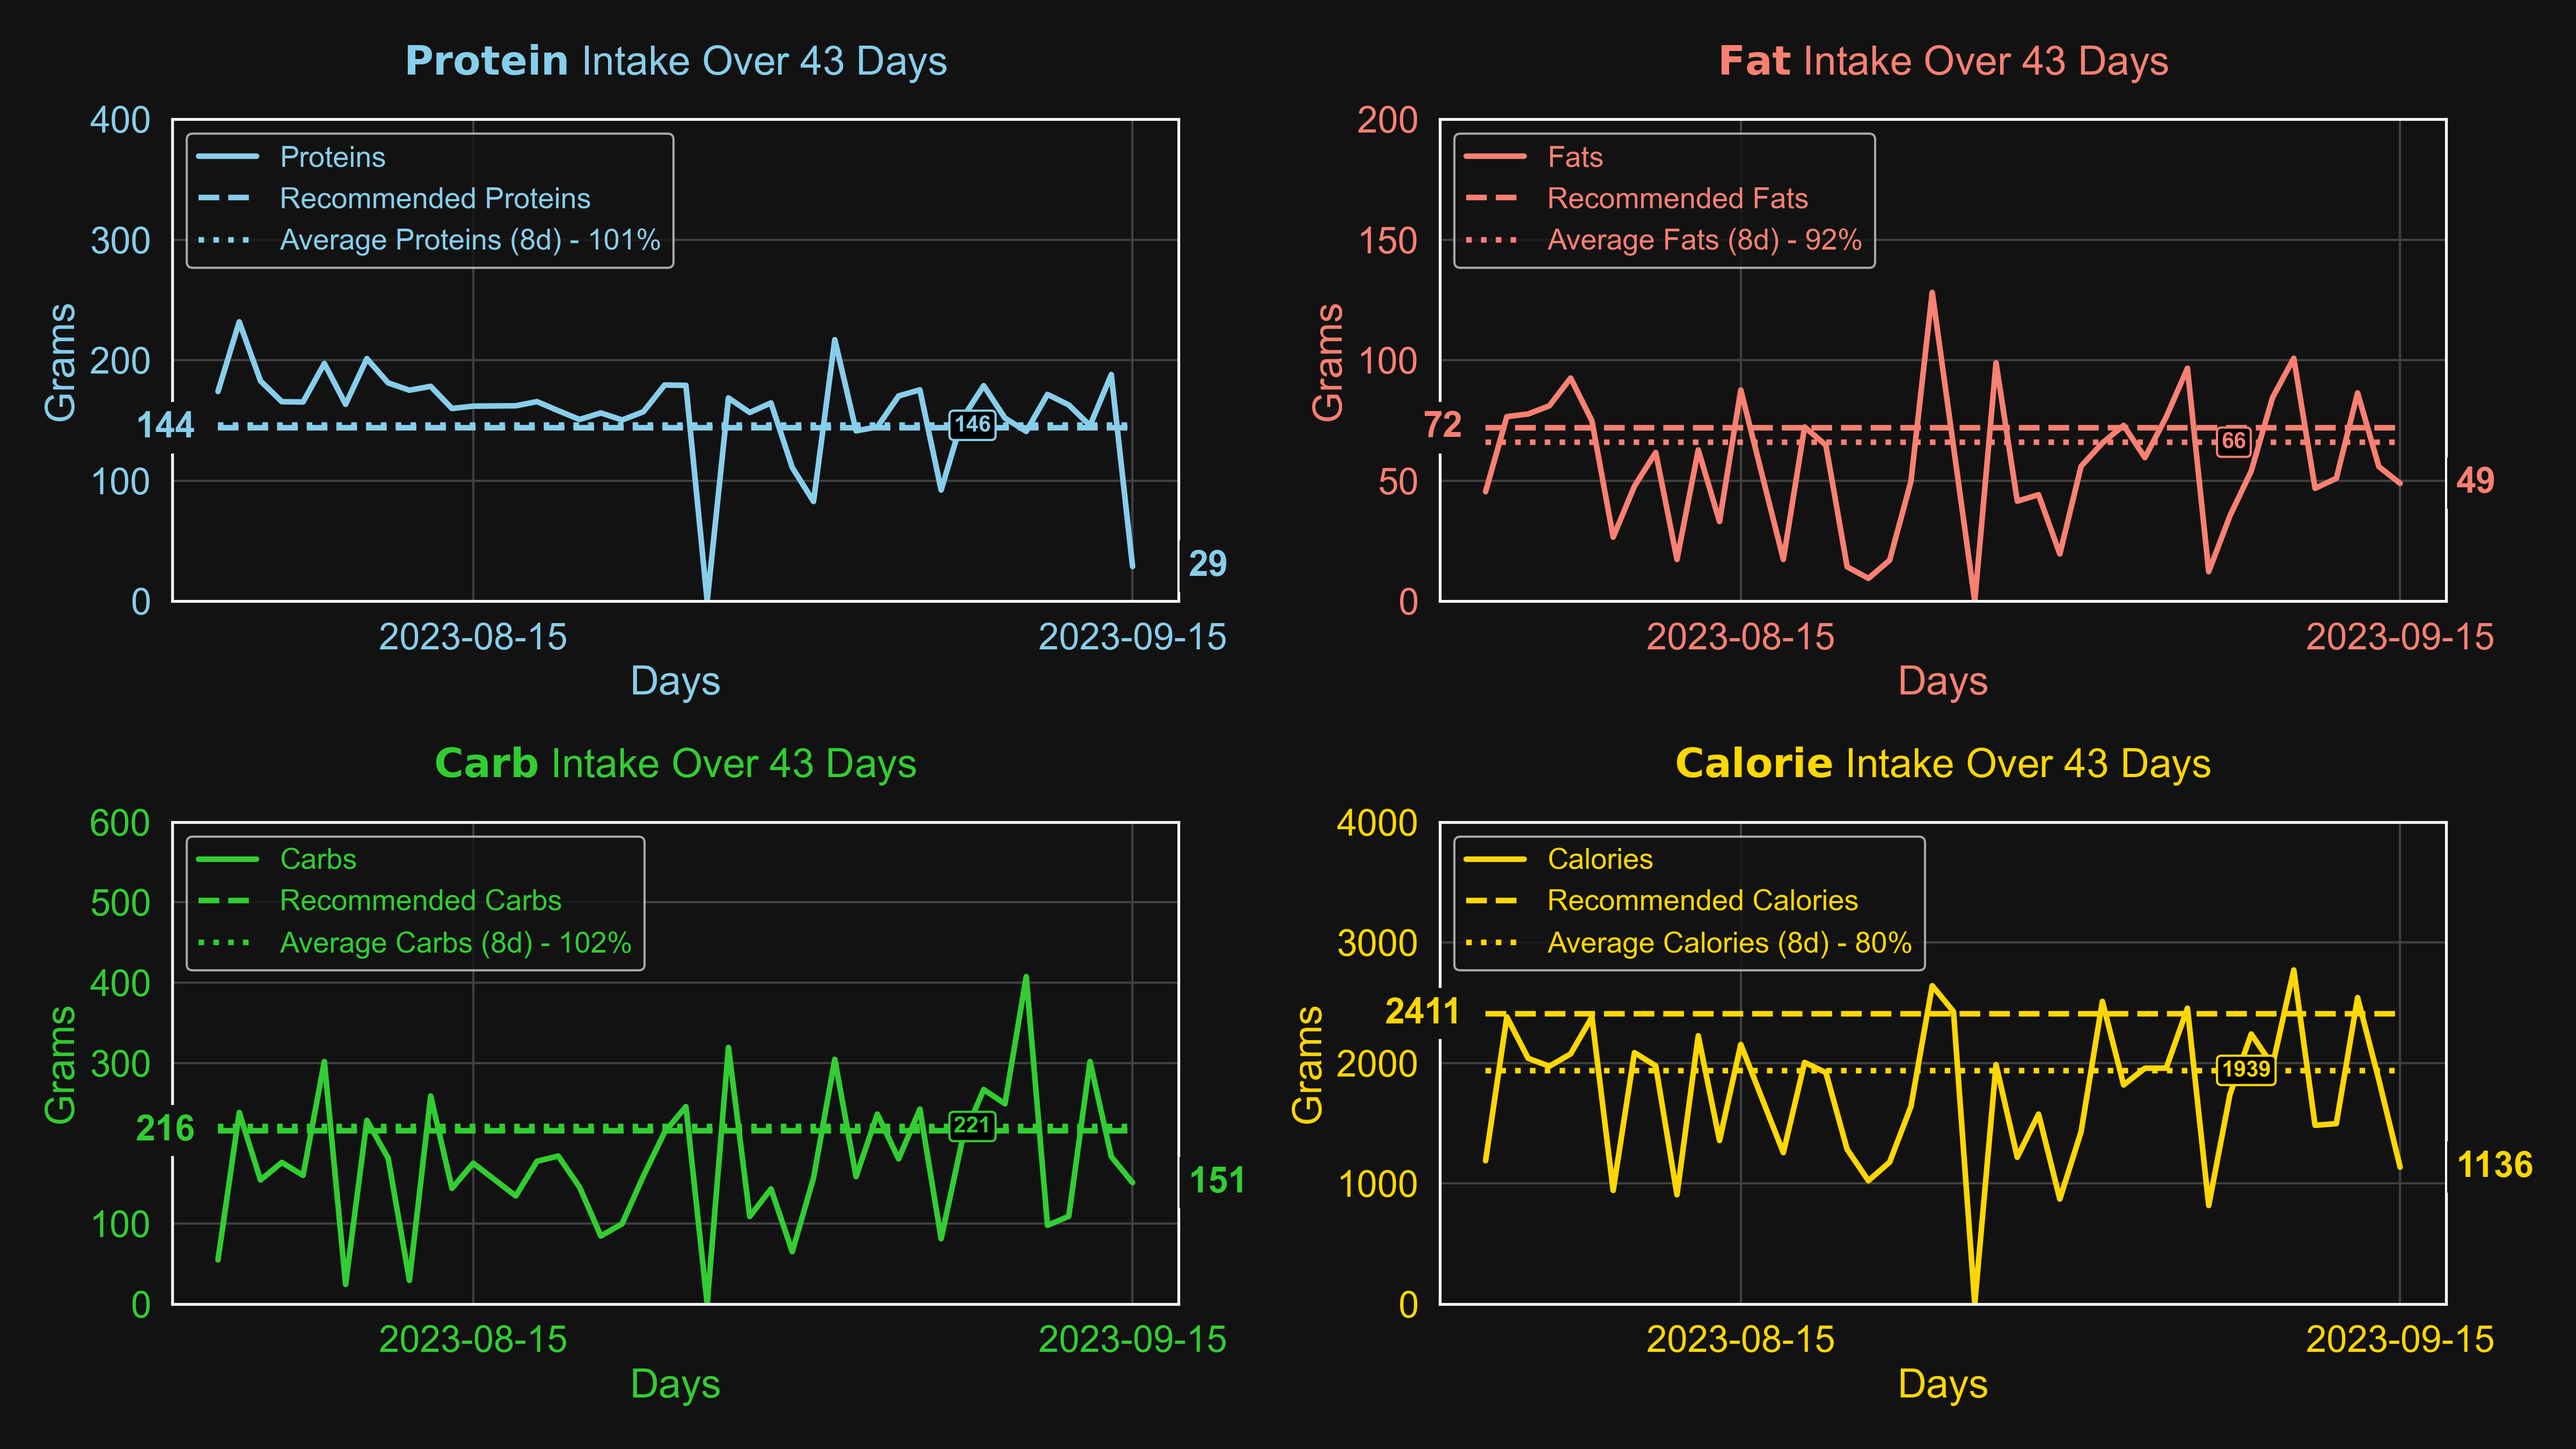
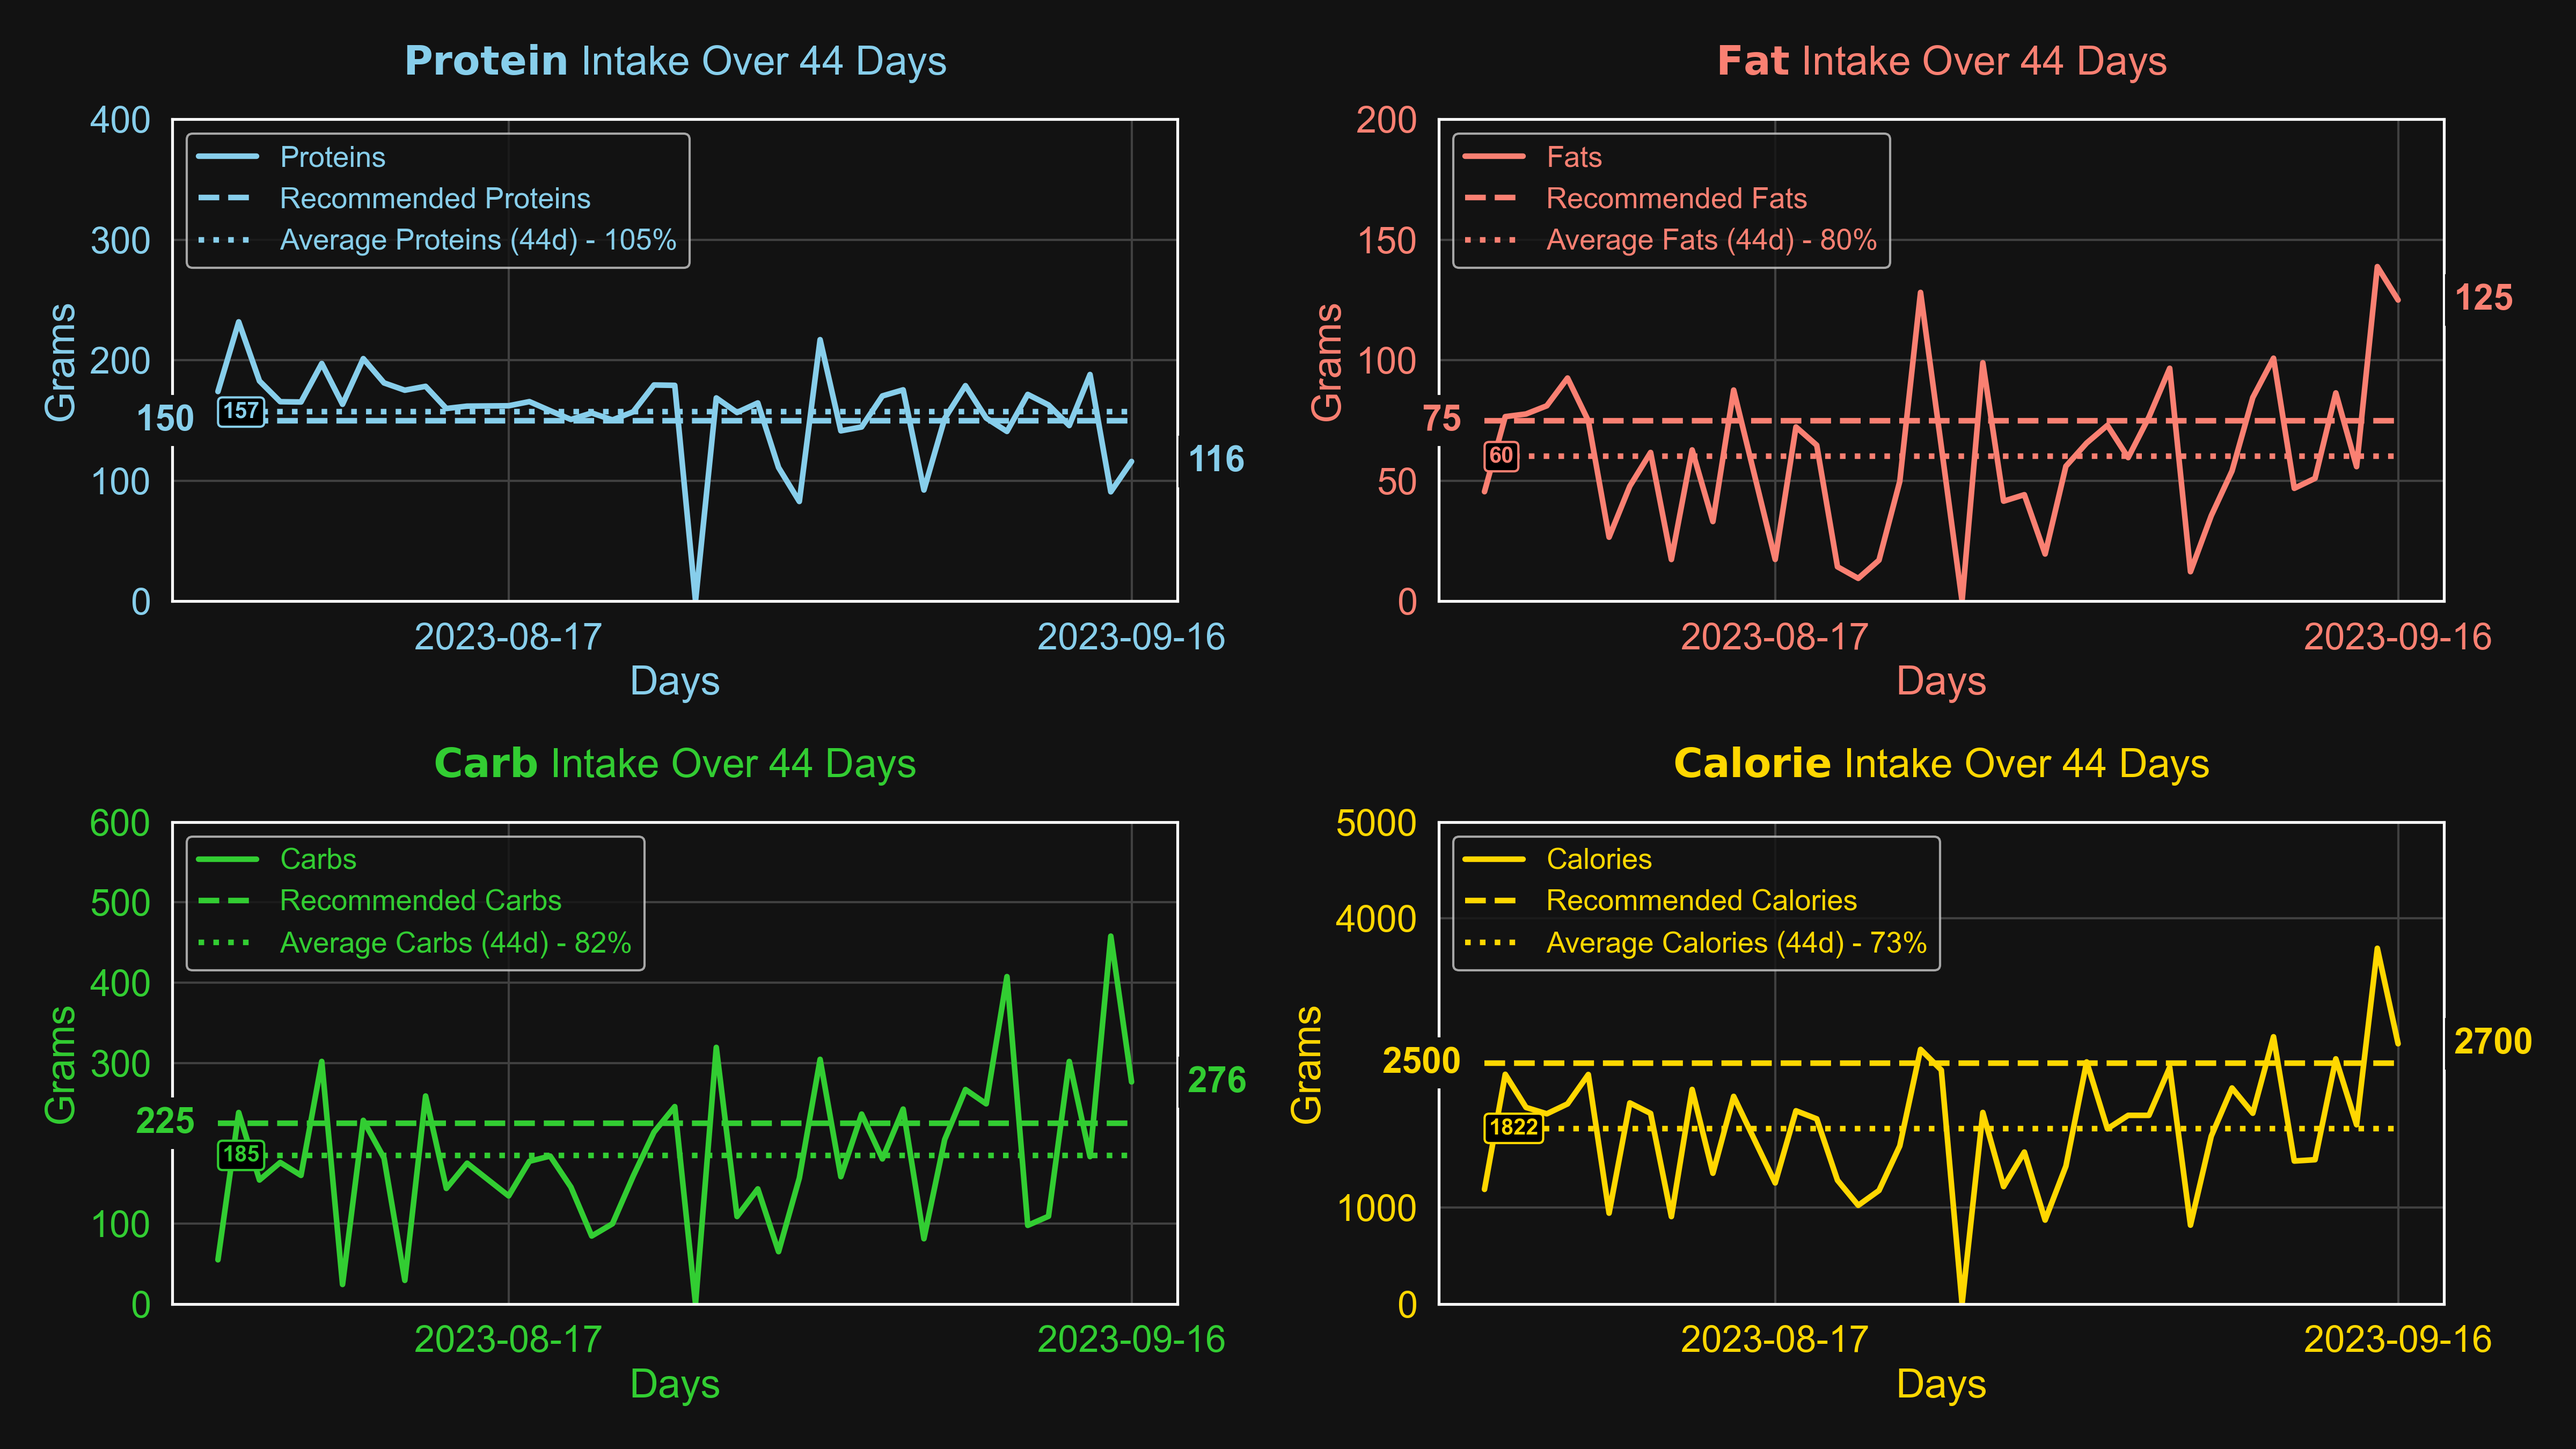
-

diff --git a/graph.py b/graph.py
@@ -51,7 +51,8 @@ def plot_chart(df, ax, nutrient, recommended_nutrient, average_nutrient, title, 
     if df[average_nutrient][0]:
         space_above = 1.15 if individual else 1.3
         average_ratio = int(round(df[average_nutrient][0] / df[recommended_nutrient][0] * 100))
-        values_to_display = [nutrient, recommended_nutrient, average_nutrient + ' (' + str(average_nb_days) + 'd) - ' + str(average_ratio) + '%']
+        average_nb_days2 = len(df) if average_nb_days <= 0 else min(average_nb_days, len(df))
+        values_to_display = [nutrient, recommended_nutrient, average_nutrient + ' (' + str(average_nb_days2) + 'd) - ' + str(average_ratio) + '%']
     else:
         space_above = 1.3 if individual else 1.45
         values_to_display = [nutrient, recommended_nutrient]
